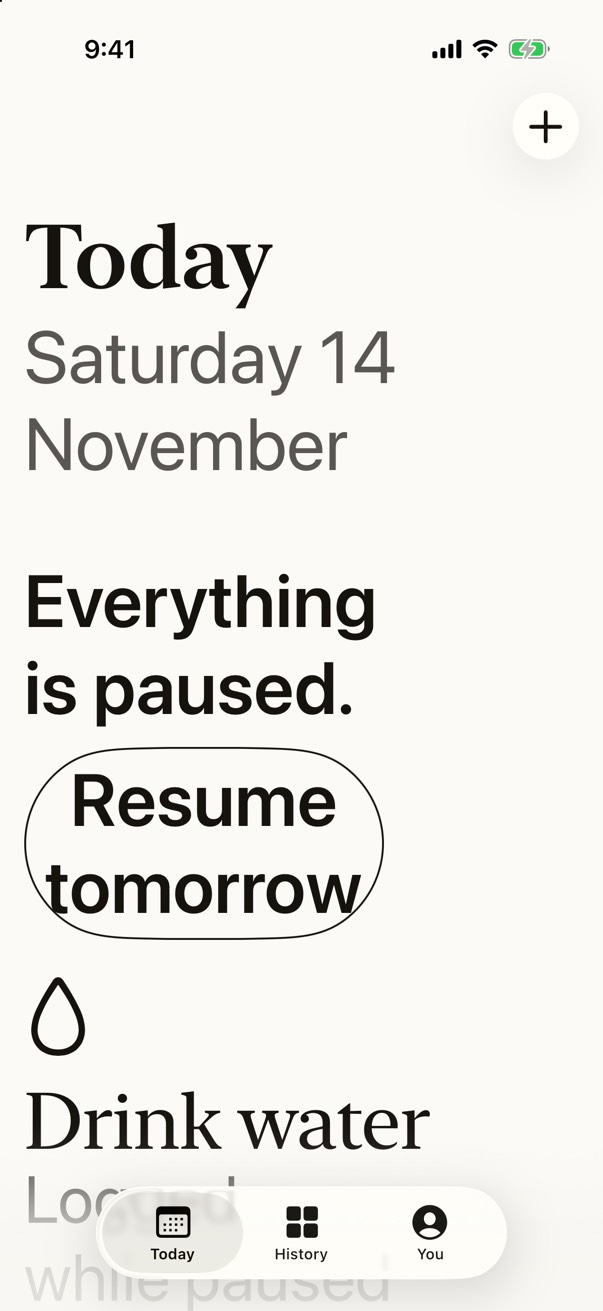
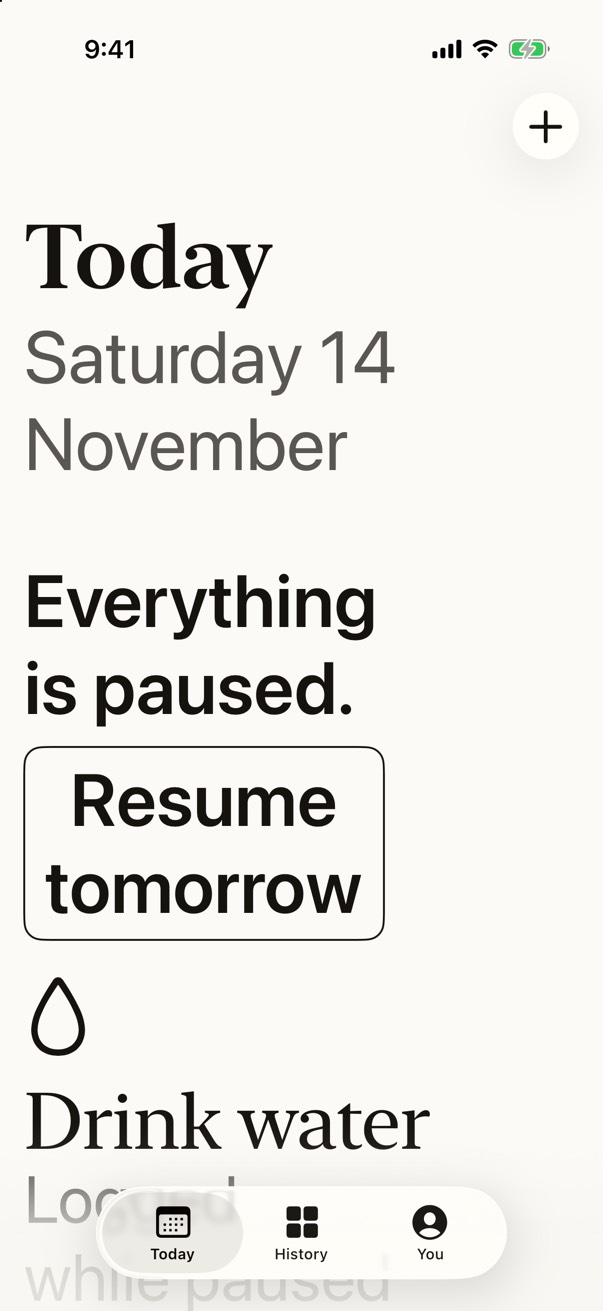
Scope the hidden pause button; keep habit forms open on a widget tap
- Today's pause line hides its button only for an Undo line about a
  pause that covers every habit.
- A cancelled undo leaves the Edit menu too.
- A widget tap never closes New habit or Edit habit.
- The outlined capsule is a rounded rectangle at accessibility sizes.

From the senior designer and UI and UX designer, round two.

diff --git a/App/Root/AppModel+Pausing.swift b/App/Root/AppModel+Pausing.swift
@@ -51,15 +51,16 @@ struct PauseLineUndo {
 extension AppModel {
     /// Shows the line and registers the same undo with the undo manager, so the line and Command-Z never both act.
     private func offerUndo(_ message: String, name: String? = nil, status: String? = nil, action: String,
-                           made: Pause? = nil, context: ModelContext, undo: @escaping () throws -> Void) {
+                           made: Pause? = nil, shared: Bool = false, context: ModelContext, undo: @escaping () throws -> Void) {
         let once = Once { [weak self] in
             self?.pauseLine = nil
             self?.perform(context) { try undo() }
         }
-        undoManager?.registerUndo(withTarget: self) { _ in MainActor.assumeIsolated { once.run() } }
+        // Registered on the Once, so a control that does the same undo can take this entry off the Edit menu.
+        undoManager?.registerUndo(withTarget: once) { once in MainActor.assumeIsolated { once.run() } }
         undoManager?.setActionName(action)
         var line = UndoLine(message: message, name: name, status: status) { once.run() }
-        line.isPauseChange = true
+        line.changesSharedPause = shared
         pauseLine = PauseLineUndo(lineID: line.id, once: once, made: made?.persistentModelID)
         show(line)
     }
@@ -75,6 +76,7 @@ extension AppModel {
     private func closePauseLine() {
         guard let pauseLine else { return }
         pauseLine.once.cancel()
+        undoManager?.removeAllActions(withTarget: pauseLine.once)
         if undoLine?.id == pauseLine.lineID { undoLine = nil }
         self.pauseLine = nil
     }
@@ -88,7 +90,7 @@ extension AppModel {
         }
         guard done, let pause else { return }
         // The line shows where the tap was, so a slip on the button is one tap from undone.
-        offerUndo(String(localized: "Everything is paused."), action: String(localized: "Pause Everything"), made: pause, context: context) {
+        offerUndo(String(localized: "Everything is paused."), action: String(localized: "Pause Everything"), made: pause, shared: true, context: context) {
             try PauseWriter.end(pause, today: today, in: context)
         }
     }
@@ -122,7 +124,7 @@ extension AppModel {
     /// so a planned pause that begins today is never lost to one tap.
     private func offerResumed(removed: [PauseCopy], resumed: [ResumedPause], name: String? = nil, context: ModelContext) {
         let message = resumed.isEmpty ? String(localized: "Pause undone.") : String(localized: "Resumes tomorrow.")
-        offerUndo(message, name: name, status: name == nil ? nil : message, action: String(localized: "Resume"), context: context) { [weak self] in
+        offerUndo(message, name: name, status: name == nil ? nil : message, action: String(localized: "Resume"), shared: name == nil, context: context) { [weak self] in
             for copy in removed { try copy.restore(in: context) }
             for item in resumed { try PauseWriter.keep(item.pause, previousEnd: item.previousEnd, in: context) }
             self?.resumedShared = []
@@ -157,8 +159,8 @@ extension AppModel {
             resumedShared = []
         }
         guard done else { return }
-        // Keep paused undoes a resume, so a resume's line that is still showing goes with it.
-        if undoLine?.isPauseChange == true { closePauseLine() }
+        // Keep paused undoes a resume of a shared pause, so that resume's line, if still showing, goes with it.
+        if undoLine?.changesSharedPause == true { closePauseLine() }
         announce(String(localized: "Paused again."))
     }
 

diff --git a/HabitKit/Sources/HabitKit/Style/ResolvedStyle.swift b/HabitKit/Sources/HabitKit/Style/ResolvedStyle.swift
@@ -99,6 +99,12 @@ public struct OutlinedCapsuleButtonStyle: ButtonStyle {
         let configuration: Configuration
         @Environment(\.style) private var style
         @Environment(\.isEnabled) private var isEnabled
+        @Environment(\.dynamicTypeSize) private var typeSize
+
+        /// At accessibility sizes a label can wrap, and a capsule's round ends would touch it.
+        private var shape: AnyShape {
+            typeSize.isAccessibilitySize ? AnyShape(RoundedRectangle(cornerRadius: 12)) : AnyShape(Capsule())
+        }
 
         var body: some View {
             configuration.label
@@ -108,7 +114,7 @@ public struct OutlinedCapsuleButtonStyle: ButtonStyle {
                 .padding(.horizontal, 14)
                 .padding(.vertical, 6)
                 .frame(minHeight: 36)
-                .background { Capsule().strokeBorder(isEnabled ? style.text : style.tertiary, lineWidth: style.outlineWidth) }
+                .background { shape.stroke(isEnabled ? style.text : style.tertiary, lineWidth: style.outlineWidth) }
                 .opacity(configuration.isPressed ? 0.6 : 1)
                 .frame(minHeight: 44)
                 .contentShape(Rectangle())

diff --git a/App/Root/RootView.swift b/App/Root/RootView.swift
@@ -96,13 +96,13 @@ struct RootView: View {
     /// Opens a widget place. A sheet already up is closed first, and the place opens once it has gone,
     /// because a second sheet cannot show over the first.
     private func open(_ place: WidgetPlace) {
+        // A habit form may hold typed changes. It stays open, and the place is dropped.
+        if model.showNewHabit || model.editing != nil { return }
         let sheetOpen = model.showNewHabit || model.editing != nil || model.counting != nil || model.pauseForm != nil
             || model.daySheet != nil || model.pickingPastDay != nil
         guard !sheetOpen else {
             pendingPlace = place
             model.pastDayChosen = nil
-            model.showNewHabit = false
-            model.editing = nil
             model.counting = nil
             model.pauseForm = nil
             model.daySheet = nil

diff --git a/App/Root/AppModel.swift b/App/Root/AppModel.swift
@@ -17,9 +17,9 @@ struct UndoLine: Identifiable {
     var tab: AppTab = .today
     /// The habit logged, so Today can scroll its row clear of the line when the line covers it.
     var habitID: UUID?
-    /// A line after a pause change. While it shows, Today's pause line hides its button, so one action
-    /// has one undo.
-    var isPauseChange = false
+    /// A line after a change to a pause that covers every habit. While it shows, Today's pause line hides
+    /// its button, so one action has one undo. A line about one habit leaves that button alone.
+    var changesSharedPause = false
 
     init(message: String, name: String? = nil, status: String? = nil, undo: (@MainActor () -> Void)? = nil) {
         self.message = message

diff --git a/App/Today/PauseViews.swift b/App/Today/PauseViews.swift
@@ -23,7 +23,7 @@ struct PauseLineView: View {
                     .accessibilityLabel(Text("\(title) \(helper)"))
                     .accessibilityAddTraits(.isHeader)
                 // While the Undo line for a pause change shows, it is the one undo, so this button waits.
-                if let button = buttonTitle, model.undoLine?.isPauseChange != true {
+                if let button = buttonTitle, model.undoLine?.changesSharedPause != true {
                     Button(button) { act() }
                         .buttonStyle(.outlinedCapsule)
                         .accessibilityIdentifier("pause-line-button")

diff --git a/docs/findings.md b/docs/findings.md
@@ -16,7 +16,7 @@ Status is one of: owed (with the milestone), gate (a test that must pass), guess
 | 4 | On a device at 100%, two split diamonds side by side in a History month row do not read as the system up-down chevron of a menu | Try the 10-degree tilted gap Pencil uses, and run the blur test again | Senior designer, colour vision and low vision, 16 Nov. Seen in `history-month-paper.jpg`, Read row |
 | 7 | The Watch's mark sizes are added to the same test | Size the Watch mark clear of 12 points | Colour vision and low vision, 16 Nov |
 | 3, owner's device | On a device with VoiceOver, "Not scheduled today" reads "Not scheduled today, 1 habit, button, collapsed", and "expanded" once open. XCUITest finds the button and its disclosure triangle but cannot read the open state | Add `.accessibilityValue` with "Collapsed" or "Expanded" and check it is not read twice | Accessibility (PR #7 review), 16 Nov. `TodayView.swift`, `testTheNotScheduledGroupReadsItsCountAndOpens` |
-| 3, owner's device | The widget on a Home Screen: a tap on a row logs it and its mark changes; a tap on a row drawn before the day turned over writes nothing and redraws. After a widget log, opening the app that was already running shows the log, and a tap on the same row in the app takes it back (release engineer, 18 Nov; if not, refresh the context when the app becomes active). Shortcuts lists "Log a habit" once (release engineer; if twice, make it not discoverable in the widget build) | If a tap does not log, check the App Group store path in the widget. If a stale tap logs, the rule in `WidgetSnapshot.accepts` is not reached | Milestone 3 build, 18 Nov. `Shared/WidgetLogIntent.swift` |
+| 3, owner's device | The widget on a Home Screen: a tap on a row logs it and its mark changes; the first tap after the day start keeps that row in place with its mark (neurodiversity, 18 Nov); a tap on a row drawn before the day turned over writes nothing and redraws. After a widget log, opening the app that was already running shows the log, and a tap on the same row in the app takes it back (release engineer, 18 Nov; if not, refresh the context when the app becomes active). Shortcuts lists "Log a habit" once (release engineer; if twice, make it not discoverable in the widget build) | If a tap does not log, check the App Group store path in the widget. If a stale tap logs, the rule in `WidgetSnapshot.accepts` is not reached | Milestone 3 build, 18 Nov. `Shared/WidgetLogIntent.swift` |
 | 3, owner's device | The widget in StandBy and on the iPad lock screen while locked: the rows are redacted and the "Today" header shows | Check `.privacySensitive()` on the widget's rows reaches the system. If not, hide the rows with `\.redactionReasons` | Security and privacy, 18 Nov. `Shared/WidgetViews.swift` |
 | 3, owner's Mac | The View and Habit menus on the Mac: each item acts on History, Habit detail or the selected Today row, the arrow keys move the selection, and Export a Copy opens the save panel with its warning. The Import panel shows no export wording | Fix the item that fails. No UI test runs on the Mac | Milestone 3 build, 18 Nov. `App/HabitApp.swift`, `ImportPresenter` |
 | 8 | Nudges make no reminder for a habit whose rule on that day has no set days. Test: the nudge schedule for a mask 0 habit is empty | Nudges skip `hasNoSetDays(on:)` days | Senior software engineer, QA, neurodiversity, 16 Nov. `Habit+Logic.swift` |
@@ -53,7 +53,7 @@ Status is one of: owed (with the milestone), gate (a test that must pass), guess
 | 13 | No way to pause one habit for past dates. "Pause this habit" starts today, and a dated pause covers every habit, so pausing after the fact for one habit costs the others' done marks. Time blindness means a pause is often seen as needed only afterwards | Neurodiversity, 18 Nov. `PauseDatesView.swift`, `HabitFormView.swift` pauseSection. The product owner, 18 Nov, would build it as the same form for one habit with its dates listed in Edit. That needs its own resume, impact and Undo rules, more than a form parameter, so by the product owner's own limit it is owed to 13. Until then Habit detail has no dates link, so no page about one habit pauses every habit (senior designer, returning user) |
 | 4 | Habit detail, Month and Year, for a habit brought back after a long archive: the archived span now draws as a band of paused dashes where it drew nothing. Check it does not make the gap louder than silence | Neurodiversity, 18 Nov. No screenshot yet. `AppModel.bringBack` |
 | 4 | The tired daily user and the behavioural scientist used both rounds before the widget's rows became chosen once a day. Their concerns (a row moving under the thumb, prompting what is left) are what the rule answers. They see it at the next stop | `WidgetSnapshot.shownRows` |
-| 4 | The widget's rows are stored for each day ahead, so the first tap of a day keeps the rows drawn (`theFirstTapOfADayKeepsTheRowsDrawnAhead`). Made after the neurodiversity expert's second round, to that lens's fix. No lens has seen it | `Shared/WidgetRows.swift`, `Widget/HabitWidget.swift` |
+| 3, confirmed | The widget's rows are stored for each day ahead, so the first tap of a day keeps the rows drawn (`theFirstTapOfADayKeepsTheRowsDrawnAhead`). Passed by the neurodiversity expert at this stop, 18 Nov. The saving in the provider is not automated; it is in the owner's widget gate | `Shared/WidgetRows.swift`, `Widget/HabitWidget.swift` |
 | 4 | A screenshot of Remove on an earlier pause that no other pause covers, showing its impact lines | Neurodiversity, 18 Nov. `pause-form-paper.jpg` shows only "You can undo this." because Pause everything covers its days |
 | 13 | The Pause for dates list with about 20 earlier pauses stays scannable | Returning user, 18 Nov. `pause-dates-paper.jpg` |
 | 13 | The four UI test files from earlier milestones raise Swift 6 actor warnings on a clean build (ContrastUITests, HistoryUITests, ScrollUITests, TodayUITests). PausingUITests is fixed with `@MainActor` and an async `setUp`; the same change fixes the others | Seen on a clean `build-for-testing`, 18 Nov |
@@ -69,9 +69,11 @@ Status is one of: owed (with the milestone), gate (a test that must pass), guess
 | 3, owner's device | The widget's header gap is 8 points at accessibility sizes. On the debug board the small widget's two-line name still sits close under "Today", likely because the board's small frame is shorter than a Home Screen's; letting the name scale cut it, so that was reverted. Check the gap on a Home Screen at AX5 with a name starting with a capital. Made after the typographer's second round; no lens has seen it | Typographer, 18 Nov. `ax5-widget-paper.jpg` |
 | 13 | Whether the @Query of shared pauses passed through the environment redraws every Today row on each log. Measure with `Self._printChanges()` in HabitRow or the SwiftUI instrument, logging one of 30 fixture habits: one row body should run. If all redraw, pass an Equatable list of start and end days | Performance, 18 Nov. `RootView.swift` sharedPauses. Owed to 13, not this stop: it needs the SwiftUI instrument on a large fixture, with the Polish performance pass; the scroll check in the definition of done measures grain, which this does not change |
 | 13 | Time the Pause for dates form and the widget's timeline with a three-year, fifteen-habit fixture: `impactLines` under 8 ms per draw, the widget process's memory flat as history grows | Performance, 18 Nov. Fixed by reading totals once; not measured. Owed to 13 with the same Instruments pass |
-| 4 | The widget's count line clamps a negative day total to 0 (`aNegativeDayTotalReadsAsNothingLogged`). Made after the performance lens's second round, to its fix; no lens has seen it | `WidgetSnapshot.make` |
+| 3, confirmed | The widget's count line clamps a negative day total to 0 (`aNegativeDayTotalReadsAsNothingLogged`). Passed by the performance lens at this stop, 18 Nov | `WidgetSnapshot.make` |
 | 5 | At AX5 with a pause, Today's heading, date and pause line fill most of the screen, and the 118 point scene card above them would push the first habit row under the tab bar. Test: an AX5 shot of today-paused with the scene card on the smallest iPhone shows the first habit's name above the tab bar. If it fails, put to the layout lenses: hide the card at accessibility sizes, let it scroll away above the heading, or fold Resume tomorrow into the pause line. Also fix where the card sits relative to the large title | Illustrator, 18 Nov. `ax5-today-paused-paper.jpg`, `TodayView.swift` 46-53 |
 | 13 | You's Archived list still draws Bring back with the system's bordered style, from milestone 2. Milestone 3's pause buttons now use the style's outlined capsule. "Choose a date" in the dates form stays bordered, to match the system date chips beside it | Senior designer, 18 Nov. `YouView.swift` 209, `PauseDatesView.swift` |
+| 13 | "Add a past day" in Habit detail draws its outlined capsule by hand; it should use `.outlinedCapsule`, with a filled variant for its first-use state | Senior designer, 18 Nov. `HabitDetailView.swift` 135-145 |
+| 4 | The outlined capsule turns to a rounded rectangle at accessibility sizes, so a wrapped label clears its ends (`ax5-today-paused-paper.jpg`). Made after the senior designer's second round; no lens has seen it | Senior designer, 18 Nov. `ResolvedStyle.swift` OutlinedCapsuleButtonStyle |
 | 13 | History month with many habits has no screenshot | `m2-hist-many.png` is Week only |
 | 4 | Marks in a History row are small beside text at the largest size. If the cells grow, lift the cap on the week header letters (`.dynamicTypeSize(...xxxLarge)` in `HistoryWeekHeader`) | `ax-history.png`, `ax5-history-paper.jpg` |
 | 13 | No screen was checked on a phone smaller than 393 by 852 points | `sheet-ax.png` |

diff --git a/docs/decisions.md b/docs/decisions.md
@@ -333,4 +333,5 @@ One entry per decision that changed the brief. Each says what changed and why, i
 - `docs/spec.md` now describes milestone 3 as built: status, Gentle Mode, pausing, the widget's rows, Undo, and the Mac Habits menu (product owner).
 - Not adopted: cutting the widget's New habit and Today places (product owner). The intent and its fresh-place handling are needed for the count sheet; the other two places are one enum case each, and the UI and UX designer and first-day user asked for them.
 - The illustrator found nothing built toward scenes. At AX5 a scene card above the pause line would crowd the first row; that is a gate for milestone 5.
+- Round two. Today's pause line hides its button only while the Undo line is about a pause that covers every habit; a line about one habit leaves it. A cancelled undo is taken off the Edit menu as well. A widget tap never closes New habit or Edit habit, which may hold typed changes; the place is dropped. The outlined capsule turns to a rounded rectangle at accessibility sizes. Asked for by the senior designer and the UI and UX designer.
 
